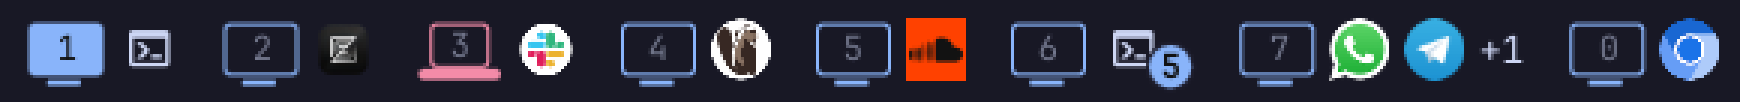
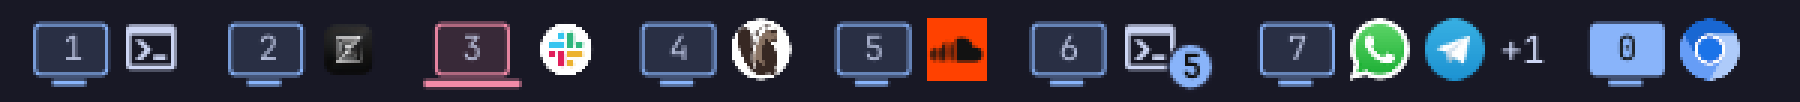
feat: shared screen frame, title-colored numbers, tinted screens
Laptop and monitor share one screen frame so their numbers read the
same, numbers use the bar's title text color, screens get a light wash
of their color, and the terminal glyph matches the app icon size.

diff --git a/ScreenShape.qml b/ScreenShape.qml
@@ -20,8 +20,11 @@ Item {
   property real size: 20
   property real line: 1
 
-  readonly property var aspect: ({ monitor: 1.4, laptop: 1.3, ultrawide: 2.0, portrait: 0.72, tv: 1.55 })
-  readonly property real screenHeight: Math.round(size - line * (kind === "laptop" ? 4 : 2.5))
+  // Monitor and laptop share one screen frame so their numbers read the same;
+  // only what sits under the screen differs. Wider/taller kinds change the
+  // proportion on purpose.
+  readonly property var aspect: ({ monitor: 1.4, laptop: 1.4, ultrawide: 2.0, portrait: 0.72, tv: 1.55 })
+  readonly property real screenHeight: Math.round(size - line * 2.5)
   readonly property real screenWidth: Math.round(screenHeight * (aspect[kind] || aspect.monitor))
   readonly property real deckWidth: screenWidth + line * 6
 
@@ -40,7 +43,8 @@ Item {
     width: shape.screenWidth
     height: shape.screenHeight
     radius: shape.line * 2
-    color: shape.filled ? shape.color : "transparent"
+    // A light wash of the screen's color inside; solid when focused.
+    color: shape.filled ? shape.color : Qt.rgba(shape.color.r, shape.color.g, shape.color.b, 0.15)
     border.width: shape.line
     border.color: shape.color
     opacity: shape.artOpacity
@@ -59,14 +63,16 @@ Item {
     opacity: shape.artOpacity
   }
 
-  // Laptop: keyboard deck that sticks out on both sides.
+  // Laptop: keyboard deck that sticks out on both sides, in the same band
+  // under the screen as the monitor's foot.
   Rectangle {
     visible: shape.kind === "laptop"
     anchors.top: screenFrame.bottom
+    anchors.topMargin: Math.round(shape.line * 0.5)
     anchors.horizontalCenter: parent.horizontalCenter
     width: shape.deckWidth
-    height: shape.line * 3
-    radius: shape.line * 1.5
+    height: shape.line * 2
+    radius: shape.line
     color: shape.color
     opacity: shape.artOpacity
   }

diff --git a/Workspaces.qml b/Workspaces.qml
@@ -355,8 +355,8 @@ BarWidget {
   }
 
   function shapeWidth(kind) {
-    var aspect = { monitor: 1.4, laptop: 1.3, ultrawide: 2.0, portrait: 0.72, tv: 1.55 }
-    var screenHeight = Math.round(root.iconSize - root.line * (kind === "laptop" ? 4 : 2.5))
+    var aspect = { monitor: 1.4, laptop: 1.4, ultrawide: 2.0, portrait: 0.72, tv: 1.55 }
+    var screenHeight = Math.round(root.iconSize - root.line * 2.5)
     var screenWidth = Math.round(screenHeight * (aspect[kind] || aspect.monitor))
     return kind === "laptop" ? screenWidth + root.line * 6 : screenWidth
   }
@@ -809,8 +809,8 @@ BarWidget {
                 color: group.modelData.color
                 filled: pill.focused
                 label: pill.modelData === 10 ? "0" : String(pill.modelData)
-                // Greyed out unless this is the focused workspace.
-                labelColor: Util.alpha(pill.tint, pill.focused ? 1 : 0.5)
+                // Same color as the bar's window title text.
+                labelColor: Util.alpha(pill.tint, 0.85)
                 filledLabelColor: root.contrastOn(group.modelData.color)
                 fontFamily: root.bar ? root.bar.fontFamily : Style.font.family
                 fontSize: Math.round(Style.font.caption * 0.85)

diff --git a/AppIcon.qml b/AppIcon.qml
@@ -32,8 +32,8 @@ Item {
 
   Image {
     visible: appSlot.app.icon !== ""
-    width: appSlot.iconWidth
-    height: parent.height
+    width: appSlot.host.appIconSize
+    height: appSlot.host.appIconSize
     fillMode: Image.PreserveAspectFit
     sourceSize.width: Math.round(appSlot.host.appIconSize * Screen.devicePixelRatio)
     sourceSize.height: Math.round(appSlot.host.appIconSize * Screen.devicePixelRatio)
@@ -51,7 +51,8 @@ Item {
     color: appSlot.tint
     opacity: appSlot.artOpacity
     font.family: appSlot.fontFamily
-    font.pixelSize: Style.bar.iconFont
+    // Same scale as the image icons.
+    font.pixelSize: appSlot.host.appIconSize
     renderType: Text.NativeRendering
   }
 
